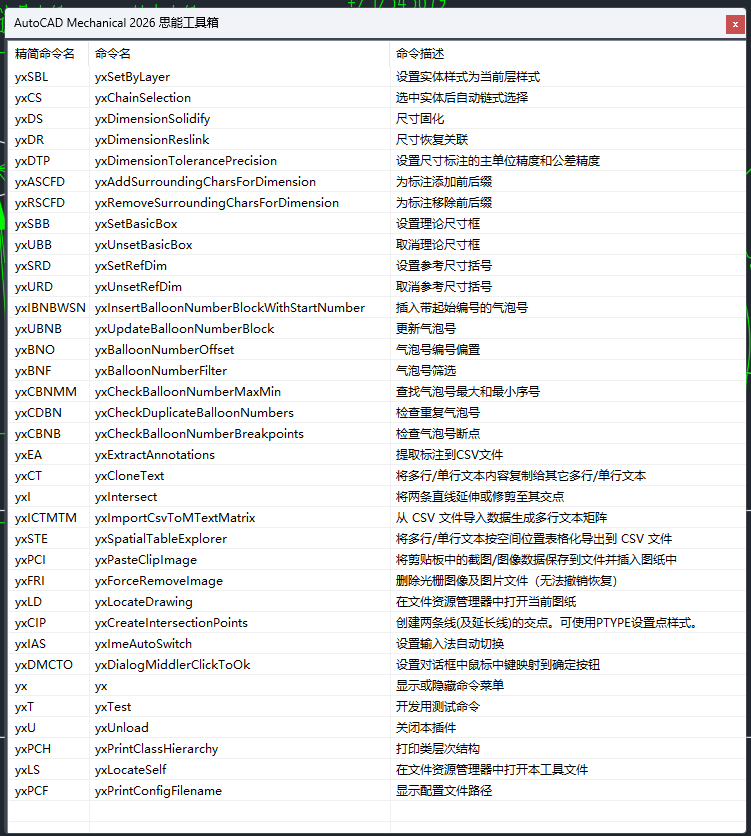
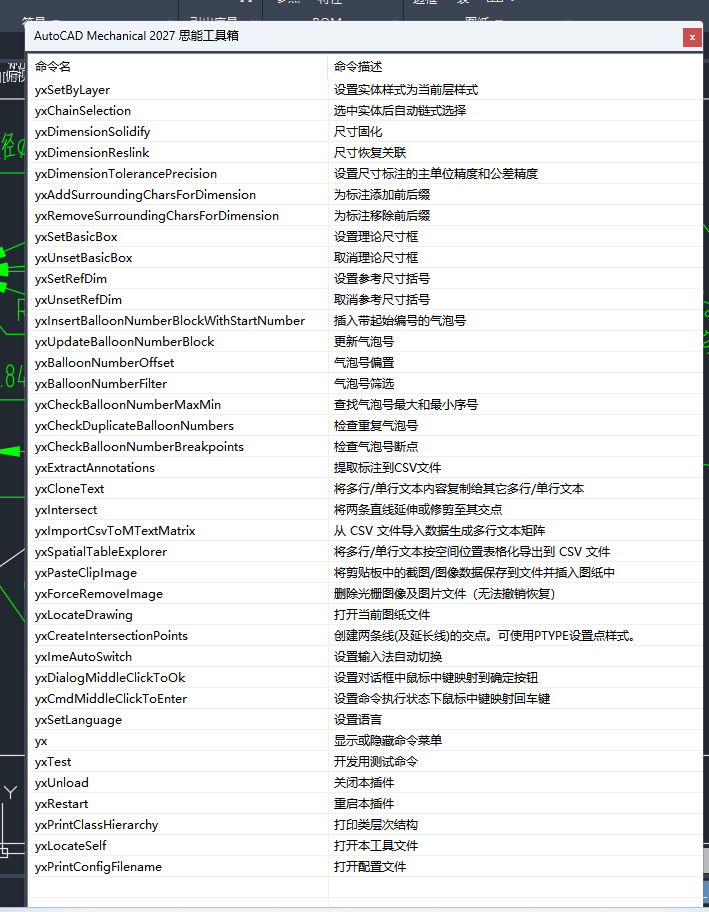
更新预览

Changed region(s): [[0.0, 0.0, 1.0, 1.0]]

diff --git a/README.md b/README.md
@@ -1,12 +1,8 @@
 # CadTools
 
-
 2026/3/16  
 前年将 AutoCAD 用作工作时，我就简单研究了下 ObjectARX，本来想根据工作需要开发工具提升效率的，后面一直搁置了。最近几天又想起来，就开始动工了。  这个插件是为 AutoCAD Mechanical 版本开发的，其它版本的 AutoCAD 可能无法使用。  
 ![alt text](doc/image1.png)  
-
-可以嵌入 CAD 菜单栏中  
-![alt text](doc/image4.png)
 
 ---
 